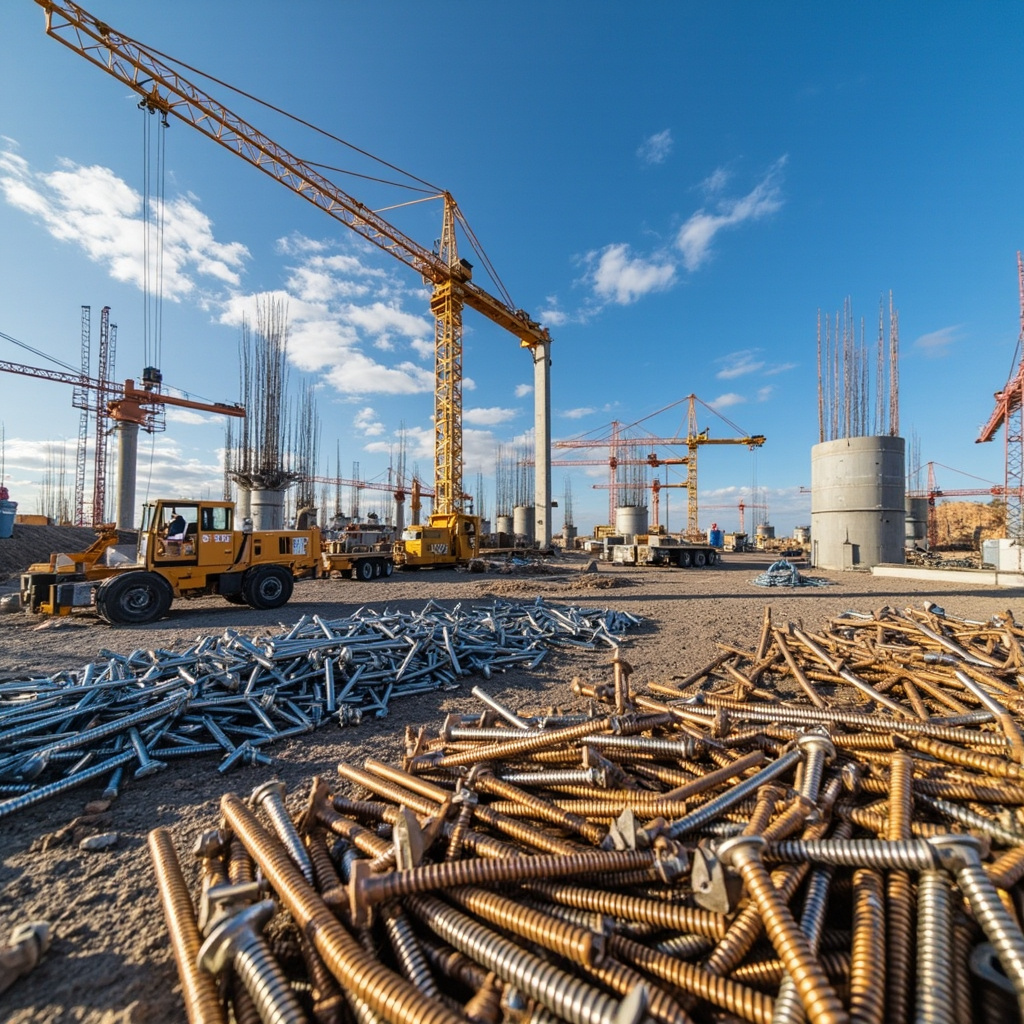
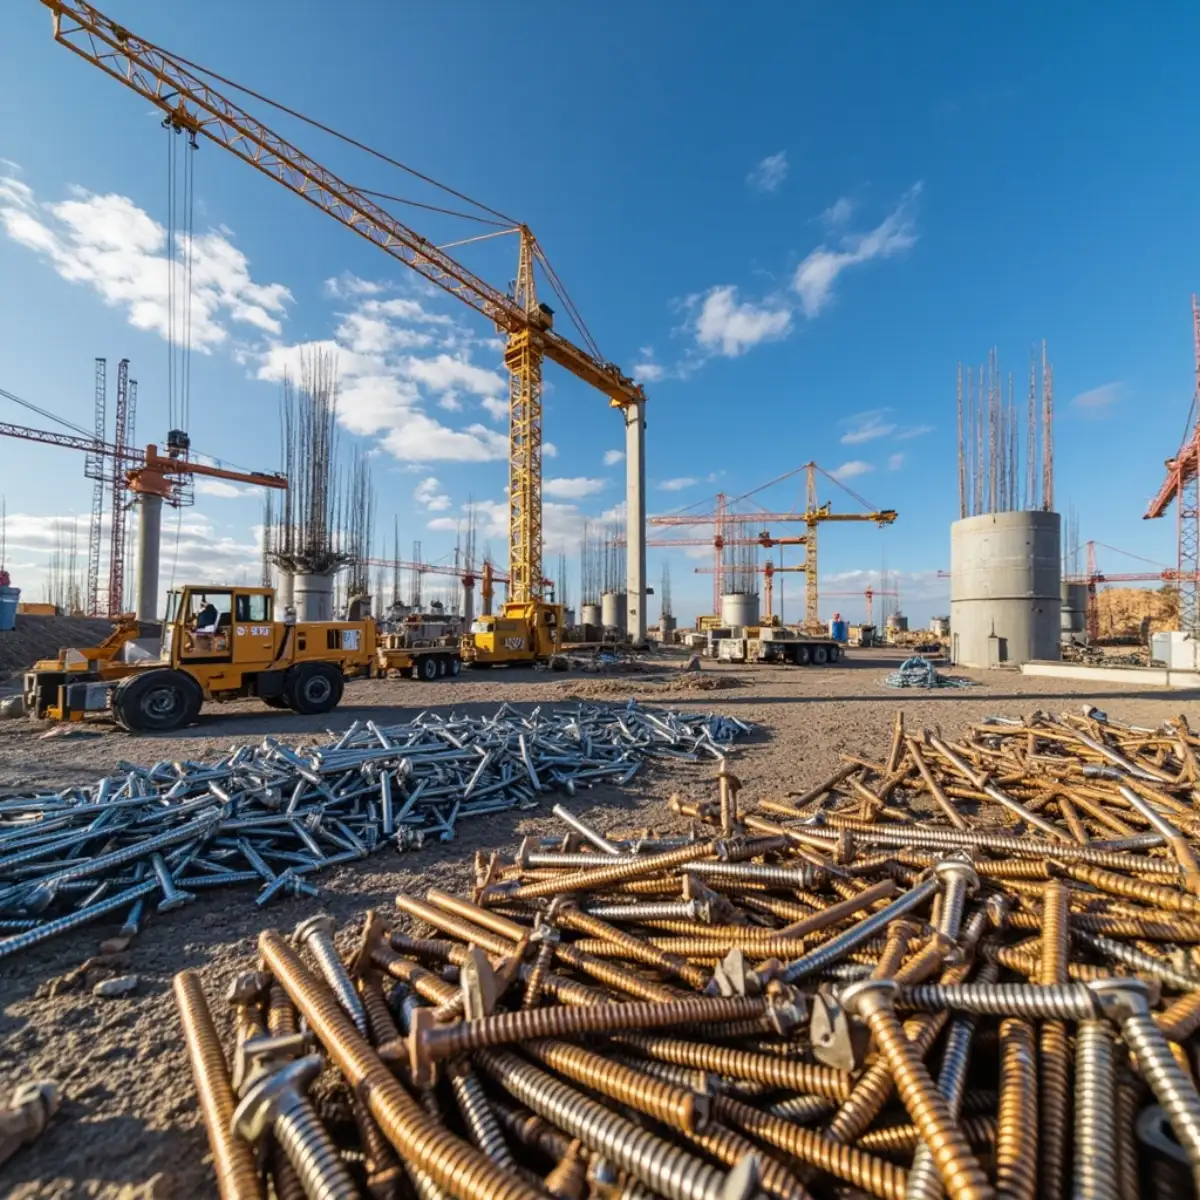
perf: product image derivatives + compress scene/industry images

diff --git a/src/lib/optImageManifest.ts b/src/lib/optImageManifest.ts
@@ -51,6 +51,10 @@ export const OPT_BASES = new Set<string>([
   "agrifastener-water-infrastructure",
   "algeria-algiers-oil-gas-fastener-specifications",
   "algeria-fastener-market-complete-guide",
+  "allen-bolts",
+  "aluminum-profiles",
+  "anchor-bolts",
+  "anchor-bolts-1",
   "anchor-bolts-foundation-guide",
   "anchor-bolts-selection-guide",
   "anchor-bolts-suppliers-africa",
@@ -59,21 +63,28 @@ export const OPT_BASES = new Set<string>([
   "asphalt-flash-band",
   "automotive-commercial-vehicle-fasteners",
   "automotive-fastener-grade-comparison",
+  "automotive-fasteners-1",
   "automotive-fasteners-guide",
   "beira-corridor-fastener-supply-chain",
   "benin-cotonou-fastener-wholesale-market",
   "bolt-anchors",
   "bolt-grade-markings-guide",
+  "bolt-markings",
   "bolt-markings-identify-grade",
   "bolt-tightening-torque-guide",
   "bolt-types-applications-guide",
+  "bolts-nuts-1",
   "bolts-nuts-2",
   "botswana-construction-boom-fastener-import",
   "botswana-fastener-supplier",
   "bulk-fastener-ordering-strategies",
   "bulk-fastener-quantity-discounts",
+  "bulk-fasteners-1",
+  "butyl-tape",
   "buy-construction-fasteners-wholesale-china",
   "cameroon-fastener-market-complete-guide",
+  "cap-nuts",
+  "carriage-bolts",
   "carriage-bolts-guide",
   "carriage-bolts-specifications",
   "china-africa-shipping-containers",
@@ -83,8 +94,11 @@ export const OPT_BASES = new Set<string>([
   "china-iso-9001-fastener-manufacturer-directory",
   "china-zimbabwe-fastener-shipping-container-guide",
   "clout-nails",
+  "coach-screws",
+  "coil-nails",
   "common-nails",
   "concrete-anchors-fasteners-guide",
+  "concrete-nails",
   "concrete-screws",
   "concrete-screws-anchors-guide",
   "congo-brazzaville-fastener",
@@ -93,8 +107,11 @@ export const OPT_BASES = new Set<string>([
   "construction-building-self-tapping-screws-tco-analysis-uv-degradation",
   "construction-fastener-rough-in",
   "construction-fastener-standards-comparison",
+  "construction-fasteners-1",
   "conveyor-belt-fasteners",
   "conveyor-belt-fasteners-tools",
+  "conveyor-fasteners-1",
+  "coupling-nuts",
   "din-iso-fastener-standards-guide",
   "din-standards-1",
   "dr-congo-drc-mining-fastener-market",
@@ -104,9 +121,11 @@ export const OPT_BASES = new Set<string>([
   "drop-in-anchors",
   "drywall-screws-1",
   "drywall-screws-2",
+  "duplex-nails",
   "durban-fastener-supplier",
   "east-africa-1",
   "east-africa-construction-fastener-market",
+  "east-africa-market-1",
   "egypt-cairo-construction-fastener-wholesale",
   "egypt-fastener-market-complete-guide",
   "egypt-suez-canal-industrial-fastener-tariff",
@@ -116,6 +135,8 @@ export const OPT_BASES = new Set<string>([
   "ethiopia-industrial-park-fastener-supply",
   "expansion-bolts",
   "extended-length-self-tapping-screws-guide",
+  "eye-bolts",
+  "eye-screws",
   "fastener-applications-construction-solar-telecom",
   "fastener-coating-systems-guide",
   "fastener-common-problems-solutions",
@@ -125,6 +146,8 @@ export const OPT_BASES = new Set<string>([
   "fastener-export-china-to-africa-guide",
   "fastener-failure-analysis-case-studies",
   "fastener-galvanic-corrosion-prevention-guide",
+  "fastener-glossary",
+  "fastener-glossary-1",
   "fastener-glossary-africa-procurement",
   "fastener-lubrication-thread-locking-guide",
   "fastener-material-selection-guide",
@@ -137,15 +160,21 @@ export const OPT_BASES = new Set<string>([
   "fastener-quality-control-iso9001",
   "fastener-quality-inspection-guide",
   "fastener-selection-guide-african-construction",
+  "fastener-storage",
   "fastener-storage-handling-guide",
+  "fastener-testing-1",
   "fastener-testing-quality-certification",
   "fastener-warehouse-management-best-practices",
   "fender-washers-1",
   "fender-washers-simplate-washers",
+  "flange-bolts",
+  "flange-nuts",
   "flat-washers-vs-spring-washers",
   "food-beverage-fastener-hygiene-standards",
+  "foundation-bolts",
   "frp-fasteners-1",
   "full-thread-half-thread-coarse-fine-thread-guide",
+  "galvanic-corrosion-1",
   "galvanic-corrosion-fastener-selection",
   "galvanized-steel-bolts",
   "galvanized-vs-stainless-comparison",
@@ -156,8 +185,11 @@ export const OPT_BASES = new Set<string>([
   "ghana-fastener-market-guide",
   "ghana-tema-port-fastener-import-procedure",
   "green-building-fastener-requirements",
+  "ground-screws",
+  "hanger-bolts",
   "harare-fastener-distributor-supplier-guide",
   "hex-bolt-dimensions-chart",
+  "hex-bolts-new",
   "hex-nuts",
   "hex-nuts-selection-guide",
   "high-strength-bolting-structural-steel",
@@ -165,6 +197,7 @@ export const OPT_BASES = new Set<string>([
   "high-tensile-bolts",
   "high-tensile-bolts-1",
   "ibr-nails-1",
+  "ibr-nails-placeholder",
   "imperial-metric-hex-nut-export-guide",
   "industrial-washers-flat-spring-lock-guide",
   "ivory-coast-abidjan-port-fastener-import-hero",
@@ -182,15 +215,18 @@ export const OPT_BASES = new Set<string>([
   "lock-nuts",
   "lock-nuts-1",
   "lock-nuts-flange-nuts-vibration-proof-guide",
+  "lock-washers",
   "machine-screws",
   "madagascar-antananarivo-fastener-sourcing",
   "malawi-agriculture",
   "marine-fasteners-guide",
   "marine-grade-fastener-selection-guide",
   "marine-outdoor-corrosion-resistant-bolts-guide",
+  "metal-brackets",
   "micro-precision-screws-electronic-guide",
   "mining-conveyor-1",
   "mining-equipment-fasteners-zambia-southafrica",
+  "mining-fasteners-1",
   "mining-fasteners-africa",
   "mombasa-port-fasteners",
   "morocco-casablanca-port-fastener-import-procedure",
@@ -209,12 +245,18 @@ export const OPT_BASES = new Set<string>([
   "nigeria-lekki-port-construction-fastener-logistics",
   "nigeria-port-upgrades-and-fastener-import-lead-times",
   "non-standard-special-shape-screws-custom-guide",
+  "non-woven-fabric",
   "nuts-bolts-glossary-terminology",
+  "nylon-lock-nuts",
   "nylon-nuts-bolts-guide",
   "payment-terms-international-fastener-trade",
   "precast-concrete-fastener-applications",
+  "ptfe-nuts",
   "railway-track-fastener-specifications",
   "republic-of-congo-fastener-supplier",
+  "rivet-nuts",
+  "rivets",
+  "rivets-1",
   "rivets-blind-rivet-nut-guide",
   "rivets-blind-rivets-guide",
   "roofing-screws-epdm-washer-guide",
@@ -224,17 +266,25 @@ export const OPT_BASES = new Set<string>([
   "self-drilling-screws-1",
   "self-drilling-screws-selection-guide",
   "self-drilling-tek-screws-price-list",
+  "self-tapping-screws",
   "self-tapping-screws-1",
   "self-tapping-screws-complete-classification-guide",
   "self-tapping-screws-guide",
+  "semi-tubular-rivets",
   "senegal-dakar-construction-fastener-wholesale",
   "senegal-fastener-market",
   "senegal-fastener-market-complete-guide",
   "senegal-harbor-port",
   "set-anchors",
+  "set-screws",
   "set-screws-dowel-pins-1",
+  "shooting-nails",
   "sleeve-anchors",
   "socket-screws-1",
+  "solar-brackets",
+  "solar-clamps",
+  "solar-hooks",
+  "solar-mounting-1",
   "solar-mounting-hex-bolt-solution-guide",
   "solar-panel-mounting-africa",
   "solar-panel-mounting-fastener-requirements",
@@ -246,14 +296,20 @@ export const OPT_BASES = new Set<string>([
   "south-africa-sabs-stainless-steel-fastener-audit",
   "southern-africa-1",
   "southern-africa-fastener-market-southafrica-botswana",
+  "southern-africa-market-1",
+  "spring-washers",
   "stainless-bolts",
+  "stainless-steel-fasteners-1",
   "stainless-steel-fasteners-304-316",
   "stainless-steel-fasteners-africa",
   "stainless-steel-hex-bolt-304-316-guide",
   "stainless-steel-hex-nuts-304-316-heavy-guide",
+  "steel-channels",
   "structural-heavy-duty-bolts-building-guide",
   "structural-steel-connection-fasteners",
+  "structural-steel-connections-1",
   "structural-steel-connections-guide",
+  "stud-bolts",
   "supplier-verification-audit",
   "supplier-verification-checklist",
   "tanzania-dar-es-salaam-port-fastener-import-procedure",
@@ -277,11 +333,15 @@ export const OPT_BASES = new Set<string>([
   "washer-types-applications",
   "washers",
   "water-fasteners-1",
+  "waterproof-coating",
+  "waterproof-membrane",
   "wedge-anchors",
   "welding-nuts-square-nut-special-nut-guide",
   "west-africa-1",
   "wind-energy-fastener-requirements-2026",
   "wind-power-machinery-high-strength-bolts-guide",
+  "wing-nuts",
+  "wood-screws",
   "wood-screws-machine-screws-furniture-guide",
   "zambia-copper-belt",
   "zambia-copper-mining-fasteners-grade-selection-2026",

diff --git a/src/components/ProductGrid.tsx b/src/components/ProductGrid.tsx
@@ -1,6 +1,7 @@
 'use client'
 
 import Image from 'next/image'
+import { optImagePath } from '@/lib/optImages'
 import { type Locale, t } from '@/i18n'
 import { allProducts } from '@/lib/products'
 import { productNames, productDescriptions, pick } from '@/lib/productI18n'
@@ -27,7 +28,7 @@ export default function ProductGrid({ locale = 'en' }: ProductGridProps) {
               <div key={product.slug} className="bg-white rounded-xl shadow-lg overflow-hidden border border-gray-100 hover:shadow-xl transition-shadow flex flex-col">
                 {/* Image - clickable link to article for SEO internal link juice */}
                 <a href={imageHref} className="block relative h-40 sm:h-48 lg:h-52 bg-gradient-to-br from-gray-100 to-gray-200">
-                  <Image src={product.image} alt={name} fill className="object-cover" sizes="(max-width: 640px) 100vw, (max-width: 1024px) 50vw, 25vw" loading="lazy" quality={78} />
+                  <Image src={optImagePath(product.image, 'thumb')} alt={name} fill className="object-cover" sizes="(max-width: 640px) 100vw, (max-width: 1024px) 50vw, 25vw" loading="lazy" quality={78} />
                 </a>
 
                 {/* Content */}

diff --git a/src/app/[locale]/products/[slug]/page.tsx b/src/app/[locale]/products/[slug]/page.tsx
@@ -1,3 +1,4 @@
+import { optImagePath } from '@/lib/optImages'
 import type { Metadata } from 'next'
 import Image from 'next/image'
 import Link from 'next/link'
@@ -164,7 +165,7 @@ export default async function ProductDetailPage({ params }: { params: Promise<{ 
           </div>
           <div className="relative aspect-[4/3] rounded-xl overflow-hidden bg-white/10">
             <Image
-              src={product.image}
+              src={optImagePath(product.image, 'hero')}
               alt={name}
               fill
               sizes="(max-width: 768px) 100vw, 50vw"

diff --git a/scripts/refresh_opt_manifest.py b/scripts/refresh_opt_manifest.py
@@ -1,0 +1,13 @@
+#!/usr/bin/env python3
+"""刷新 src/lib/optImageManifest.ts：扫描 public/images/opt 下已有 hero 衍生图。"""
+import glob, os
+
+os.chdir(os.path.join(os.path.dirname(os.path.abspath(__file__)), '..'))
+bases = sorted({os.path.basename(f).replace('-hero.webp', '') for f in glob.glob('public/images/opt/*-hero.webp')})
+body = ",\n".join(f'  "{b}"' for b in bases)
+content = (
+    "// 由 scripts/gen_opt_images.sh 生成：已存在优化衍生版的图片 base name\n"
+    "export const OPT_BASES = new Set<string>([\n" + body + "\n])\n"
+)
+open('src/lib/optImageManifest.ts', 'w').write(content)
+print(f"manifest {len(bases)} bases")
